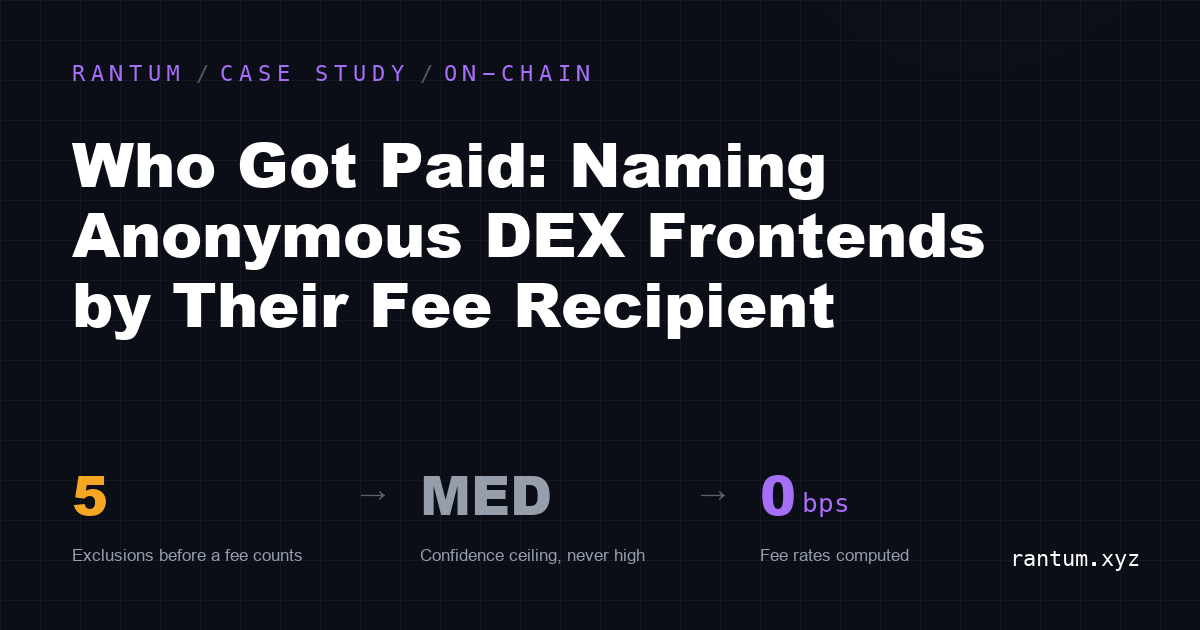
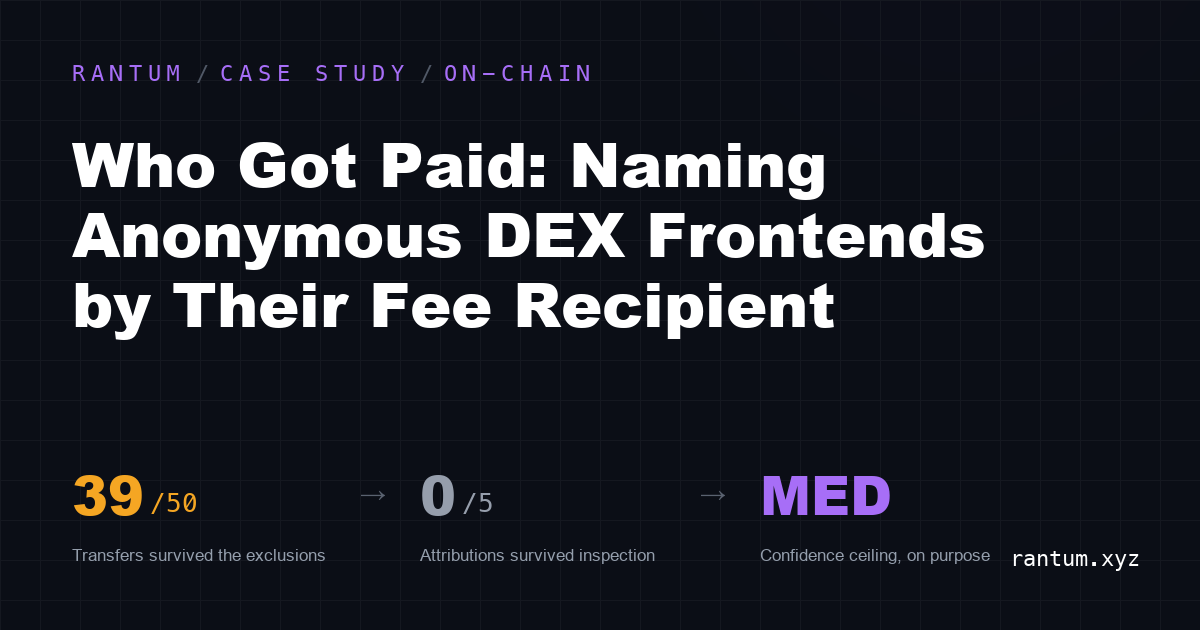
case study: add the 50-swap empirical run; fix critic findings
Critic pass findings applied:
- Added "What One Real Run Returns": kernel executed on the 50 most recent
  Ethereum swaps in ClearTrace's synced dex.trades sample (2026-07-01
  window, receipts refetched 2026-08-20, receipt-only mode, ClearTrace
  label store). 39/50 had a surviving transfer; the fee vector decided 5;
  on inspection all 5 rested on labels on routing infrastructure, none was
  a demonstrated fee. Published honestly as the vector's measured
  false-positive channel and the argument for the medium ceiling.
- Scoped "cannot route around" to in-transaction skims (was contradicted
  by the limitations section).
- "no FeeCollected event" -> no *standard* event (LiFi emits its own).
- Cut the rebasing rationale; softened the 30bps convention claim; cut
  dev-history color; reduced negation-reversals; replaced the
  manufactured-profundity closer.
- Stat tiles now carry the run's real numbers (39/50, 0/5, Med); OG image
  regenerated to match.

diff --git a/case-studies/fee-recipient-attribution.html b/case-studies/fee-recipient-attribution.html
@@ -4,9 +4,9 @@
     <meta charset="UTF-8">
     <meta name="viewport" content="width=device-width, initial-scale=1.0">
     <title>Who Got Paid: Identifying Anonymous DEX Frontends by Their Fee Recipient | Rantum Studio</title>
-    <meta name="description" content="There is no fee event on a swap. A frontend's cut is an ordinary ERC-20 transfer hiding among the swap's own token movements, so identifying it is a problem of exclusion, not decoding. The five exclusions, the asymmetry that makes a fee sink a signal in one direction only, and why this vector is capped at medium confidence.">
+    <meta name="description" content="There is no standard fee event on a swap. A frontend's cut is an ordinary ERC-20 transfer hiding among the swap's own token movements, so identifying it is a problem of exclusion rather than decoding. The five exclusions, a fifty-swap run with every survivor inspected, and why this vector is capped at medium confidence on purpose.">
     <meta property="og:title" content="Who Got Paid: Identifying Anonymous DEX Frontends by Their Fee Recipient | Rantum Studio">
-    <meta property="og:description" content="A frontend's cut is an ordinary ERC-20 transfer hiding among the swap's own token movements. Identifying it is exclusion, not decoding, and it is capped at medium confidence on purpose.">
+    <meta property="og:description" content="A frontend's cut is an ordinary ERC-20 transfer hiding among the swap's own token movements. Identifying it is exclusion rather than decoding. We ran it on fifty real swaps, inspected every survivor, and published what the inspection found.">
     <meta property="og:image" content="https://rantum.xyz/og-fee-recipient-attribution.png">
     <meta property="og:image:width" content="1200">
     <meta property="og:image:height" content="630">
@@ -77,7 +77,7 @@
                 Who Got Paid: Identifying Anonymous DEX Frontends by Their Fee Recipient
             </h1>
             <p class="text-xl text-gray-400 leading-relaxed mb-8">
-                A swap arrives through a generic router with nothing in its calldata to say who sent it. But somebody took a cut, and that payment is on-chain. This is the vector that reads a frontend's identity out of who got paid, the five exclusions that decide what counts as a fee at all, and why the answer is capped at medium confidence on purpose.
+                A swap arrives through a generic router with nothing in its calldata to say who sent it. But somebody took a cut, and that payment is on-chain. This is the vector that reads a frontend's identity out of who got paid, when the payee is an address someone has already labelled: the five exclusions that decide what counts as a fee at all, what happened when we ran it over fifty real swaps and inspected every survivor, and why the answer is capped at medium confidence on purpose.
             </p>
             <div class="flex items-center gap-4 text-sm font-mono text-gray-500 border-b border-gray-800 pb-8">
                 <div class="flex items-center gap-2">
@@ -94,16 +94,16 @@
         <!-- Key Stats -->
         <div class="grid grid-cols-3 gap-4 mb-16 not-prose">
             <div class="glass-panel p-5 rounded-xl text-center">
-                <div class="text-2xl font-bold text-white font-mono">5</div>
-                <div class="text-xs text-gray-500 mt-1 font-mono uppercase tracking-wide">Exclusions before a transfer counts as a fee</div>
+                <div class="text-2xl font-bold text-white font-mono">39<span class="text-base text-gray-500">/50</span></div>
+                <div class="text-xs text-gray-500 mt-1 font-mono uppercase tracking-wide">Real swaps where a transfer survived the exclusions</div>
             </div>
             <div class="glass-panel p-5 rounded-xl text-center">
-                <div class="text-2xl font-bold text-white font-mono">Medium</div>
+                <div class="text-2xl font-bold text-white font-mono">0<span class="text-base text-gray-500">/5</span></div>
+                <div class="text-xs text-gray-500 mt-1 font-mono uppercase tracking-wide">Fee-vector attributions that survived inspection</div>
+            </div>
+            <div class="glass-panel p-5 rounded-xl text-center">
+                <div class="text-2xl font-bold text-white font-mono">Med</div>
                 <div class="text-xs text-gray-500 mt-1 font-mono uppercase tracking-wide">Confidence ceiling, never high</div>
-            </div>
-            <div class="glass-panel p-5 rounded-xl text-center">
-                <div class="text-2xl font-bold text-white font-mono">0</div>
-                <div class="text-xs text-gray-500 mt-1 font-mono uppercase tracking-wide">Basis-point rates computed</div>
             </div>
         </div>
 
@@ -115,15 +115,15 @@
                 Most swaps do not announce their origin. A meta-frontend, a wallet's in-app swap tab, and a Telegram trading bot can all route through the same public router, emit the same <code>Swap</code> event, and leave calldata that looks generic. Three of ClearTrace's four attribution vectors work on routing evidence: was the entrypoint a known aggregator, did the user call a pool directly or through a proxy, is there a fingerprint appended to the calldata. When all three come up empty, the transaction is anonymous by every structural measure.
             </p>
             <p>
-                But an anonymous frontend is usually still a business, and a business takes a cut. That cut has to move on-chain, inside the same transaction as the swap, and it is the one piece of evidence a frontend cannot route around without giving up its revenue. The fourth vector reads it.
+                But an anonymous frontend is usually still a business, and a business takes a cut. When that cut is taken inside the swap transaction itself, the way affiliate and referral skims are, it has to move on-chain where the receipt records it. That is the evidence the fourth vector reads. A frontend that sweeps its revenue later, or monetizes off-chain entirely, leaves nothing here; the limits section returns to that. And one dependency shapes everything downstream: finding who got paid is mechanical, but naming them requires a label somebody has already attached to that address.
             </p>
             <p>
-                The problem is that the cut does not identify itself. There is no fee standard on Ethereum, no <code>FeeCollected</code> event a decoder can key on, no convention for marking one token movement as revenue and another as settlement. A frontend's revenue is an ordinary ERC-20 <code>Transfer</code> log sitting in a receipt beside the swap's own transfers, structurally identical to them. You cannot decode it, because there is nothing to decode. You can only work out which transfers are <em>not</em> part of the swap and see who is left.
+                The problem is that the cut does not identify itself. There is no fee standard on Ethereum. Individual projects emit their own fee events, LiFi's collector contract logs a <code>FeesCollected</code> event a decoder can subscribe to, but nothing generic marks one token movement as revenue and another as settlement across the long tail of routers this vector exists for. A frontend's revenue is an ordinary ERC-20 <code>Transfer</code> log sitting in a receipt beside the swap's own transfers, structurally identical to them. You cannot decode it, because there is nothing to decode. You can only work out which transfers are <em>not</em> part of the swap and see who is left.
             </p>
 
             <h3>Trap 1: identification by exclusion puts every error in the exclusion set</h3>
             <p>
-                Turning "which transfer is the fee" into "which transfers are not the swap" is the only available move, and it relocates all of the risk into the exclusion list. Every category you forget to exclude becomes a false frontend. The user receiving their own output tokens is not a fee. The contract that was called is not a fee. A pool receiving the input side of the trade is not a fee. A token contract receiving its own token, which happens on rebasing and fee-on-transfer tokens, is not a fee. A burn address is not a fee. Miss any one of those and the vector confidently reports a counterparty as the frontend that originated the trade.
+                Turning "which transfer is the fee" into "which transfers are not the swap" is the move available here, and it relocates all of the risk into the exclusion list. Every category you forget to exclude becomes a false frontend. The user receiving their own output tokens is not a fee. The contract that was called is not a fee. A pool receiving the input side of the trade is not a fee. A token contract receiving its own token, which some fee-on-transfer designs do, is not a fee. A burn address is not a fee. Miss any one of those and the vector confidently reports a counterparty as the frontend that originated the trade.
             </p>
 
             <h3>Trap 2: a fee sink is a signal in one direction only</h3>
@@ -167,7 +167,7 @@ for token, recipient, raw_amount in transfers:
 </code></pre>
 
             <p>
-                Two decisions in that block are worth pulling out, because they are the ones that took the longest to get right.
+                Two decisions in that block are worth pulling out.
             </p>
             <p>
                 <strong>The amount is stored exactly and never converted.</strong> <code>raw_amount</code> is the integer from the transfer's data field, kept as a string, with no token decimals applied and no USD price attached. That looks like an omission and is a refusal. Converting it requires the token's decimals and a price at that block, and both of those are lookups that can fail quietly and produce a number that is wrong by orders of magnitude while still looking plausible in a table. The vector's job is attribution, and attribution does not need the fee's value. Anything downstream that genuinely needs a denominated figure can do the conversion where the failure is visible.
@@ -176,12 +176,12 @@ for token, recipient, raw_amount in transfers:
                 <strong>Recipients are deduplicated within a transaction.</strong> A single address can receive several transfers in one swap, on a multi-hop route or when both sides of a trade pay the same collector. Reporting it repeatedly would imply several fee events where there was one relationship.
             </p>
 
-            <h3>The confidence tier, and the bug that set it</h3>
+            <h3>The confidence tier, and the bug that made the case for it</h3>
             <p>
                 A matched recipient is handed to the frontend taxonomy, which resolves the label into a kind (wallet, frontend, MEV bot, or nothing) and returns a bucket with an explicit confidence. A calldata-suffix match returns <code>high</code>. A fee-recipient match returns <code>medium</code>, always, by construction: it is described in the code as indirect but specific, which is exactly what an affiliate payment is.
             </p>
             <p>
-                That tiering is not decorative, and the repository records what happened when the name matching underneath it was too loose. An earlier version treated <code>0x</code> as a plain substring marker for the 0x protocol. But <code>0x</code> is also the prefix of every hex address, and the labeler routinely embeds addresses in names, rendering them as <code>Wintermute (0x51c7…8ac2)</code> or emitting heuristic labels like <code>Ethereum First Funder: 0xa4aF…</code>. Every such label matched. The comment in the source states the damage plainly: any suffix-tagged transaction carrying any non-MEV, non-wallet label was booked as a named frontend at high confidence. A one-substring matching rule silently promoted a large class of unknowns into confident, named, wrong attributions.
+                The tiering earns its keep, and the repository records what happened when the name matching underneath it was too loose. An earlier version treated <code>0x</code> as a plain substring marker for the 0x protocol. But <code>0x</code> is also the prefix of every hex address, and the labeler routinely embeds addresses in names, rendering them as <code>Wintermute (0x51c7…8ac2)</code> or emitting heuristic labels like <code>Ethereum First Funder: 0xa4aF…</code>. Every such label matched. The comment in the source states the damage plainly: any suffix-tagged transaction carrying any non-MEV, non-wallet label was booked as a named frontend at high confidence. A one-substring matching rule silently promoted a large class of unknowns into confident, named, wrong attributions.
             </p>
             <p>
                 The fix was a stricter entity pattern, but the durable lesson is about tiering. A system that only emits identities cannot be audited after a matching bug; a system that emits identities with the evidence class attached lets you find every attribution that rested on the broken rung and re-evaluate exactly those.
@@ -195,12 +195,26 @@ for token, recipient, raw_amount in transfers:
                 The fee vector sits below the suffix check in that cascade and above the generic router heuristic. A recipient whose label resolves to a wallet returns wallet embedded; one that resolves to a frontend returns named frontend; anything that resolves to neither falls through to the next rung rather than being forced into a bucket. Knowing that a fee was paid to an address nobody has labelled is not an attribution, and the system says so.
             </p>
 
-            <h2>What This Does Not Claim</h2>
+            <h2>What One Real Run Returns</h2>
             <p>
-                It does not cluster frontends by fee rate. The obvious next step from "who got paid" is "how much, as a rate," on the theory that a consistent basis-point cut is a fingerprint that would group several anonymous routers under one operator. That is not implemented, and the reason is in the design above: the vector deliberately holds the amount as a raw integer, so a rate would require the decimals-and-price conversion it exists to avoid, applied to both the fee and the trade notional, before any two swaps could be compared. A fee rate is also weak identity evidence in a way an address is not, since a 30 basis point cut is a convention rather than a signature, shared by a large number of unrelated products. The address is the identifier. The amount is recorded because it is free to record, not because a rate has been validated as a clustering key.
+                Method pieces are cheap without a run, so here is one: the 50 most recent Ethereum swaps in ClearTrace's synced <code>dex.trades</code> sample, a seven-minute window from 2026-07-01, receipts refetched from an archive node on 2026-08-20 and pushed through the kernel in receipt-only mode with ClearTrace's own label store answering <code>resolve_name</code>. All 50 classified. On 39 of them, at least one transfer survived the five exclusions. The calldata-suffix vector settled 23, the aggregator and bot rungs took four each, fourteen resolved nothing, and the fee vector decided the final attribution on five.
             </p>
             <p>
-                It also inherits every limit of the labeling layer beneath it. The vector can isolate a fee recipient perfectly and still return nothing useful, because <code>resolve_name</code> has no label for that address, which is the common case for exactly the anonymous frontends this vector is aimed at. When it works, it works because someone has already named the collector. And the exclusion set is a fixed list of five categories, not a learned classifier: a fee routed through an intermediate contract that resembles a pool, or paid in a later transaction rather than inside the swap, is invisible to this pass by construction.
+                Then we inspected the five, and this is the part of the piece that earns the confidence tier. Every one of them rested on a label attached to routing infrastructure rather than to a monetizing interface. Two resolved through an adapter contract whose name contains a venue string, so the frontend marker matched plumbing. And the three we dissected transfer by transfer were not fees at all. In a $4,165 stablecoin swap routed through TransitSwapRouterV5, the surviving recipients were a market-making counterparty that received 2.655 WETH and paid back 4,165 USDC, a routing contract that both received and forwarded funds, and an address carrying an aggregator label that received the full trade notional as an intermediate hop. The taxonomy walked the list, hit the aggregator label, and booked a named frontend at medium confidence. In a $172k swap the pattern was cruder still: three surviving recipients received the identical amount, which is not three fees, it is the notional in flight.
+            </p>
+            <p>
+                So the run's honest summary is: in receipt-only mode, the exclusion set cannot tell a fee from a hop. The five categories remove the user, the entry contract, the pools, the token contracts, and the burns, and everything else in a multi-hop route survives, wearing whatever label it has. The vector found the route, not the revenue. The structural fix is known and not yet built: exclude every address that also <em>sends</em> within the same receipt, or use trace data to remove the whole call path, and both are recorded in the repo as the hardening step this run argues for.
+            </p>
+            <p>
+                What the tier system did do is exactly its job. All five wrong names went out the door marked medium and <code>fee_recipient</code>, which means one query finds every attribution that rests on this rung, and re-evaluating them after the exclusion fix touches nothing booked on suffix or aggregator evidence. An untiered system would have published the same five names as flat facts and left no seam to find them by. That is the difference the bug story above already paid for once.
+            </p>
+
+            <h2>What This Does Not Claim</h2>
+            <p>
+                It does not cluster frontends by fee rate. The obvious next step from "who got paid" is "how much, as a rate," on the theory that a consistent basis-point cut is a fingerprint that would group several anonymous routers under one operator. That is not implemented, and the reason is in the design above: the vector deliberately holds the amount as a raw integer, so a rate would require the decimals-and-price conversion it exists to avoid, applied to both the fee and the trade notional, before any two swaps could be compared. A fee rate is also weak identity evidence in a way an address is not: interface fees cluster around a handful of conventional sizes, so a rate is a habit shared across unrelated products, where an address belongs to exactly one operator. The address is the identifier. The amount is recorded because it is free to record, not because a rate has been validated as a clustering key.
+            </p>
+            <p>
+                It also inherits every limit of the labeling layer beneath it. The vector can isolate a recipient cleanly and still return nothing, because <code>resolve_name</code> has no label for that address, and the run above adds the sharper failure: when the store's labels are attached to infrastructure, or simply wrong, the vector inherits those errors at medium confidence. Whatever it names, it names because someone already labelled the collector, so its recall on genuinely anonymous frontends, the ones in this piece's title, is bounded by the label store and on this sample was zero. And the exclusion set is a fixed list of five categories, not a learned classifier: a fee routed through an intermediate contract that resembles a pool, or paid in a later transaction rather than inside the swap, is invisible to this pass by construction.
             </p>
             <p>
                 Finally, the confidence ceiling is real and permanent. No fee-recipient match will ever be promoted to high confidence, however clean it looks, because the underlying inference is indirect. A frontend that wants to be identified precisely can append a calldata suffix, which is what the high tier is for.
@@ -208,12 +222,12 @@ for token, recipient, raw_amount in transfers:
 
             <h2>What It Shows</h2>
             <p>
-                Reading a fact that was never recorded as a fact. Nothing in a swap receipt is labelled as revenue; the fee is legible only as the transfer left over once everything structural has been ruled out, and the engineering is almost entirely in the ruling out. The same shape recurs whenever a system's most interesting quantity is a side effect rather than a field: the work is defining the exclusions precisely, keeping the raw value raw, and attaching an evidence class so a later mistake in the matching layer is findable instead of baked in.
+                The vector reads a fact that was never recorded as a fact, and the run above prices that honestly. Nothing in a swap receipt is labelled as revenue; the fee is legible only as the transfer left over once everything structural has been ruled out, so the exclusions are the entire product, and every category they miss walks into the output wearing a name. The same shape recurs whenever a system's most interesting quantity is a side effect rather than a field: define the exclusions precisely, keep the raw value raw, attach an evidence class so a mistake in the matching layer is findable instead of baked in, and then run it on real data and publish what the inspection found, including when what it found is your own false-positive channel.
             </p>
 
             <h2>What It Proves to a Client</h2>
             <p>
-                That we can build identity resolution on evidence that was never intended to identify anyone, and that we will hand you the confidence tier alongside the answer. For a protocol or an L2 measuring where its order flow actually originates, the deliverable is not a list of names; it is a list of names with the evidence class next to each, an explicit unattributed share that has not been quietly redistributed into the named rows, and a written account of what the method cannot see. That is the difference between a dashboard that survives an audit and one that survives until someone checks it.
+                That we can build identity resolution on evidence that was never intended to identify anyone, and that we will hand you the confidence tier alongside the answer. For a protocol or an L2 measuring where its order flow actually originates, the deliverable is the names with the evidence class next to each, an explicit unattributed share that has not been quietly redistributed into the named rows, and a written account of what the method cannot see, including, when a run turns one up, the failure it has not fixed yet. The fifty-swap inspection above is that account for this vector, published rather than filed.
             </p>
 
         </article>
